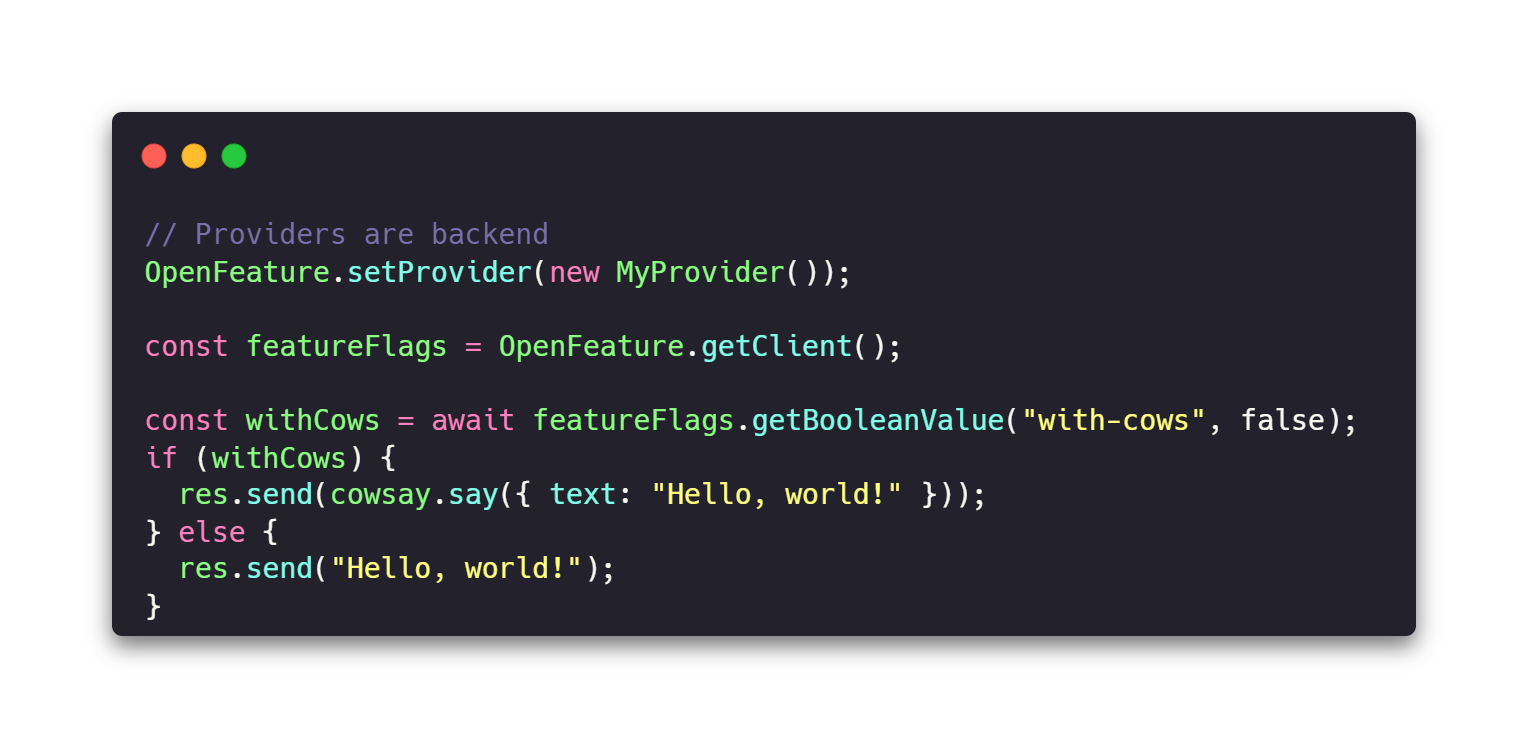
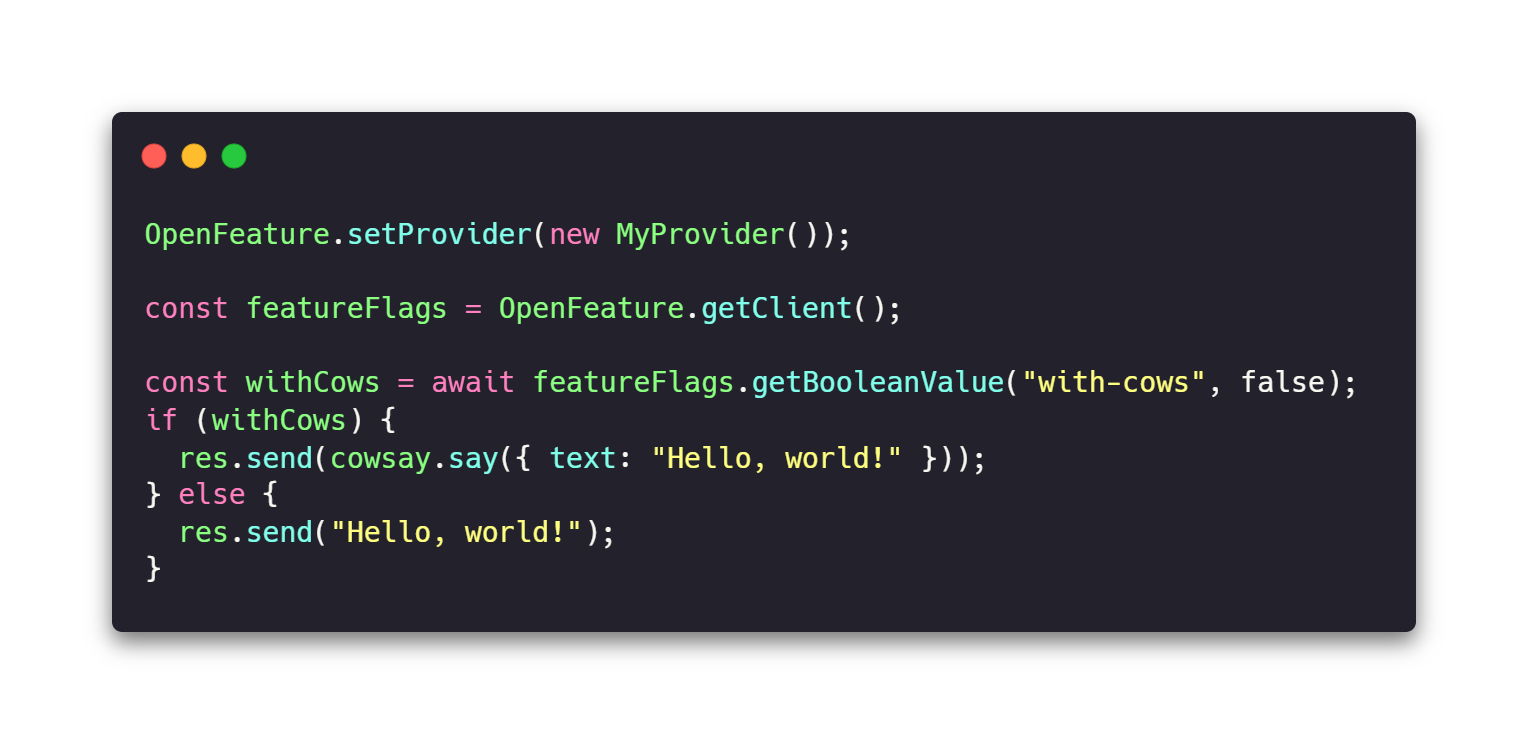
additional polish

Changed region(s): [[0.0923, 0.2782, 0.892, 0.7728]]

diff --git a/src/partials/features-zigzag.tsx b/src/partials/features-zigzag.tsx
@@ -1,15 +1,15 @@
 import React from 'react';
 // import Link from '@docusaurus/Link';
-// import { useColorMode } from '@docusaurus/theme-common';
+import { useColorMode } from '@docusaurus/theme-common';
 
 // import CncfIconWhite from '@site/static/img/cncf-color-whitetext.svg';
 // import CncfIconBlack from '@site/static/img/cncf-color.svg';
 
 /**
  * The code snippet was created on Carbon.now using the dracula pro theme.
- * 
- * @link https://carbon.now.sh/?bg=rgba%28171%2C184%2C195%2C0%29&t=dracula-pro&wt=none&l=application%2Ftypescript&width=763.5&ds=true&dsyoff=5px&dsblur=11px&wc=true&wa=false&pv=56px&ph=56px&ln=false&fl=1&fm=Hack&fs=14px&lh=133%25&si=false&es=2x&wm=false&code=%252F%252F%2520Providers%2520are%2520backend%2520%250AOpenFeature.setProvider%28new%2520MyProvider%28%29%29%253B%250A%250Aconst%2520featureFlags%2520%253D%2520OpenFeature.getClient%28%29%253B%250A%250Aconst%2520withCows%2520%253D%2520await%2520featureFlags.getBooleanValue%28%2522with-cows%2522%252C%2520false%29%253B%250Aif%2520%28withCows%29%2520%257B%250A%2520%2520res.send%28cowsay.say%28%257B%2520text%253A%2520%2522Hello%252C%2520world%21%2522%2520%257D%29%29%253B%250A%257D%2520else%2520%257B%250A%2520%2520res.send%28%2522Hello%252C%2520world%21%2522%29%253B%250A%257D
- * 
+ *
+ * @link https://carbon.now.sh/?bg=rgba%28171%2C184%2C195%2C0%29&t=dracula-pro&wt=none&l=application%2Ftypescript&width=763.5&ds=true&dsyoff=5px&dsblur=11px&wc=true&wa=false&pv=56px&ph=56px&ln=false&fl=1&fm=Hack&fs=14px&lh=133%25&si=false&es=2x&wm=false&code=OpenFeature.setProvider%28new%2520MyProvider%28%29%29%253B%250A%250Aconst%2520featureFlags%2520%253D%2520OpenFeature.getClient%28%29%253B%250A%250Aconst%2520withCows%2520%253D%2520await%2520featureFlags.getBooleanValue%28%2522with-cows%2522%252C%2520false%29%253B%250Aif%2520%28withCows%29%2520%257B%250A%2520%2520res.send%28cowsay.say%28%257B%2520text%253A%2520%2522Hello%252C%2520world%21%2522%2520%257D%29%29%253B%250A%257D%2520else%2520%257B%250A%2520%2520res.send%28%2522Hello%252C%2520world%21%2522%29%253B%250A%257D
+ *
  * NOTE: Please update the link if the image is changed.
  */
 import CodeSnippet from '@site/static/img/code-snippet.png';
@@ -31,7 +31,7 @@ import { faPhp } from '@fortawesome/free-brands-svg-icons';
 import CheckboxIcon from './checkbox-icon';
 
 function FeaturesZigZag() {
-  // const { isDarkTheme } = useColorMode();
+  const { isDarkTheme } = useColorMode();
 
   return (
     <section>
@@ -104,13 +104,13 @@ function FeaturesZigZag() {
                 data-aos="fade-up"
               >
                 <div className="max-w-full mx-auto md:max-w-none h-auto flex flex-row flex-wrap">
-                  <CloudbeesSvg className="flex-auto h-24 w-24 m-4 fill-black dark:fill-white" />
-                  <SplitSvg className="flex-auto h-24 w-24 m-4 fill-black dark:fill-white" />
-                  <FliptSvg className="flex-auto h-24 w-24 m-4 fill-black dark:fill-white" />
-                  <GoFeatureFlagSvg className="flex-auto h-24 w-24 m-4 fill-black dark:fill-white" />
-                  <FlagsmithSvg className="flex-auto h-24 w-24 m-4 fill-black dark:fill-white" />
-                  <LaunchDarklySvg className="flex-auto h-24 w-24 m-4 fill-black dark:fill-white" />
-                  <FlagdSvg className="flex-auto h-24 w-24 m-4 fill-black dark:fill-white" />
+                  <CloudbeesSvg className="flex-auto h-24 w-24 m-4 fill-[#1c1e21] dark:fill-[#e3e3e3]" />
+                  <SplitSvg className="flex-auto h-24 w-24 m-4 fill-[#1c1e21] dark:fill-[#e3e3e3]" />
+                  <FliptSvg className="flex-auto h-24 w-24 m-4 fill-[#1c1e21] dark:fill-[#e3e3e3]" />
+                  <GoFeatureFlagSvg className="flex-auto h-24 w-24 m-4 fill-[#1c1e21] dark:fill-[#e3e3e3]" />
+                  <FlagsmithSvg className="flex-auto h-24 w-24 m-4 fill-[#1c1e21] dark:fill-[#e3e3e3]" />
+                  <LaunchDarklySvg className="flex-auto h-24 w-24 m-4 fill-[#1c1e21] dark:fill-[#e3e3e3]" />
+                  <FlagdSvg className="flex-auto h-24 w-24 m-4 fill-[#1c1e21] dark:fill-[#e3e3e3]" />
                 </div>
               </div>
               {/* Content */}
@@ -150,11 +150,23 @@ function FeaturesZigZag() {
                 data-aos="fade-up"
               >
                 <div className="max-w-full mx-auto md:max-w-none h-auto flex flex-row flex-wrap">
-                  <CSharpNoFillSvg className="flex-auto h-32 w-32 m-4 fill-black dark:fill-white" />
-                  <FontAwesomeIcon className="flex-auto h-32 w-32 m-4" icon={faGolang} />
-                  <FontAwesomeIcon className="flex-auto h-32 w-32 m-4" icon={faJava} />
-                  <FontAwesomeIcon className="flex-auto h-32 w-32 m-4" icon={faSquareJs} />
-                  <FontAwesomeIcon className="flex-auto h-32 w-32 m-4" icon={faPhp} />
+                  <CSharpNoFillSvg className="flex-auto h-32 w-32 m-4 fill-[#1c1e21] dark:fill-[#e3e3e3]" />
+                  <FontAwesomeIcon
+                    className={`flex-auto h-32 w-32 m-4 [color:${isDarkTheme ? '#e3e3e3' : '#1c1e21'}]`}
+                    icon={faGolang}
+                  />
+                  <FontAwesomeIcon
+                    className={`flex-auto h-32 w-32 m-4 [color:${isDarkTheme ? '#e3e3e3' : '#1c1e21'}]`}
+                    icon={faJava}
+                  />
+                  <FontAwesomeIcon
+                    className={`flex-auto h-32 w-32 m-4 [color:${isDarkTheme ? '#e3e3e3' : '#1c1e21'}]`}
+                    icon={faSquareJs}
+                  />
+                  <FontAwesomeIcon
+                    className={`flex-auto h-32 w-32 m-4 [color:${isDarkTheme ? '#e3e3e3' : '#1c1e21'}]`}
+                    icon={faPhp}
+                  />
                 </div>
               </div>
               {/* Content */}

diff --git a/src/partials/hero-home.tsx b/src/partials/hero-home.tsx
@@ -72,7 +72,7 @@ function HeroHome() {
             <div className="max-w-xs mx-auto sm:max-w-none sm:flex sm:justify-center">
               <div data-aos="fade-up" data-aos-delay="400">
                 <Link
-                  className="btn text-white bg-purple-600 hover:bg-purple-700 w-full mb-4 sm:w-auto sm:mb-0"
+                  className="btn text-white hover:text-white bg-purple-600 hover:bg-purple-700 w-full mb-4 sm:w-auto sm:mb-0"
                   to="/docs/reference/intro"
                 >
                   Learn more
@@ -80,7 +80,7 @@ function HeroHome() {
               </div>
               <div data-aos="fade-up" data-aos-delay="600">
                 <Link
-                  className="btn text-white bg-gray-700 hover:bg-gray-800 w-full sm:w-auto sm:ml-4"
+                  className="btn text-white hover:text-white bg-gray-700 hover:bg-gray-800 w-full sm:w-auto sm:ml-4"
                   // TODO change once the Five Minutes to Feature Flags tutorial is ready
                   to="/docs/category/getting-started"
                 >
